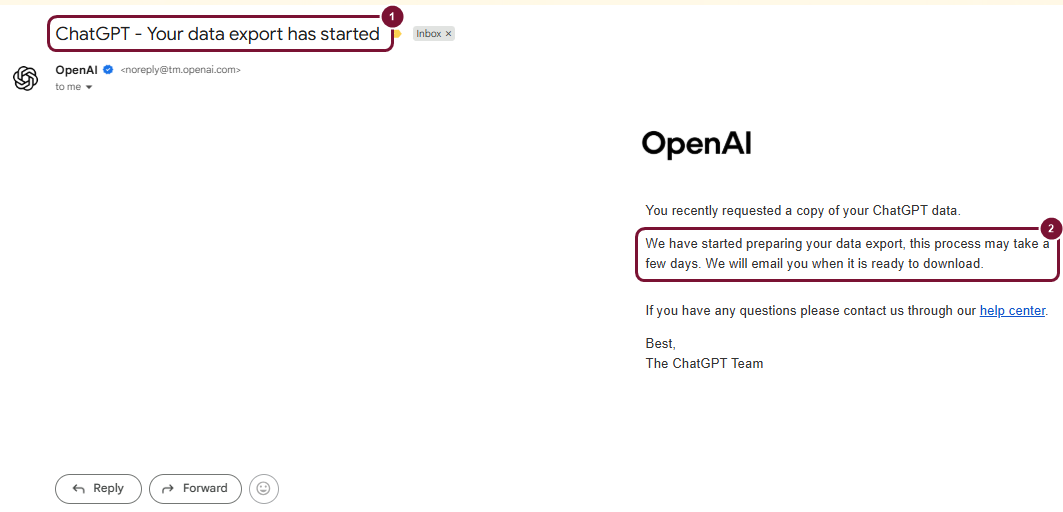
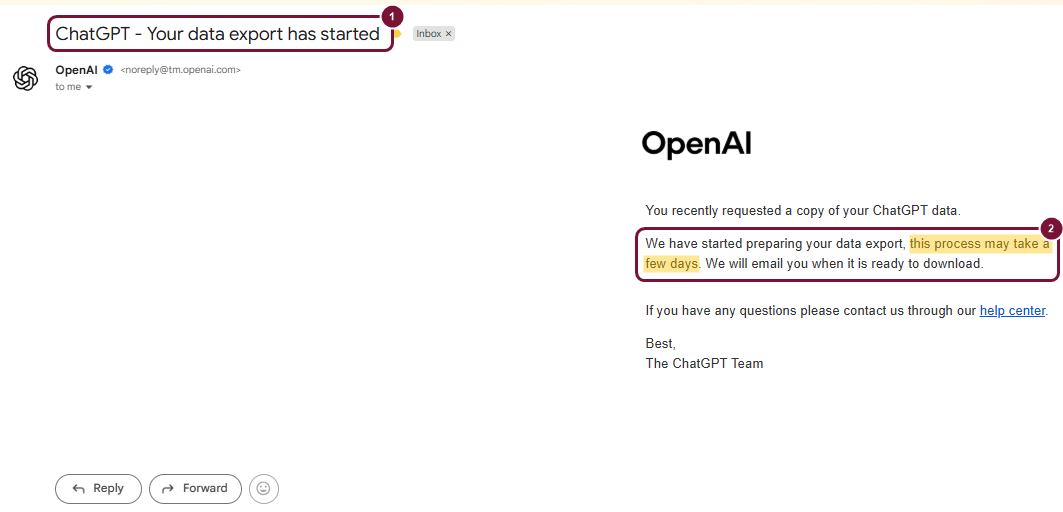
השוואה למדריך Team: Plugins ו-Sites במיזוג, סיכון אחרי המיזוג, שיטת בדיקת קבצים, ומרקר בצילום המייל

Changed region(s): [[0.8382, 0.4375, 0.9934, 0.5], [0.5898, 0.5, 0.683, 0.5312]]

diff --git a/guide-3.html b/guide-3.html
@@ -319,6 +319,10 @@ footer{font-size:.85rem;padding:30px 16px 20px;border-top:1px solid #dfe7e4}
       <div class="sec-body">
         <p class="sec-lead">לפני שלוחצים, כדאי להבין מה בדיוק המיזוג עושה לחשבון האישי שלכם.</p>
         <p>במיזוג, המידע מהחשבון האישי עובר לסביבת <bdi dir="ltr">Business</bdi>, והחשבון האישי נמחק. אחרי שהמיזוג הושלם, החשבון האישי כבר לא מופיע, ונשארת רק סביבת <bdi dir="ltr">Business</bdi>.</p>
+        <div class="callout warn">
+          <span class="callout-label">סיכון שחשוב להכיר לפני המיזוג</span>
+          <p>לפי <bdi dir="ltr">OpenAI</bdi>, אחרי המיזוג המידע האישי הופך לחלק מסביבת <bdi dir="ltr">Business</bdi>. אם בהמשך תעזבו את הסביבה, תוסרו ממנה, או שהסביבה תושבת, תאבדו גם את הגישה למידע שמוזג, והחשבון האישי הקודם לא ישוחזר. זו עוד סיבה לשמור את הגיבוי מחוץ ל-<bdi dir="ltr">ChatGPT</bdi>, ולבדוק את מדיניות המשרד לפני שממזגים.</p>
+        </div>
       </div>
     </section>
 
@@ -331,8 +335,9 @@ footer{font-size:.85rem;padding:30px 16px 20px;border-top:1px solid #dfe7e4}
         <ul class="bullets">
           <li>היסטוריית השיחות <bdi dir="ltr">(Chats)</bdi></li>
           <li><bdi dir="ltr">GPTs</bdi> שיצרתם (שימו לב: <bdi dir="ltr">OpenAI</bdi> מתכננת לסגור אותם ולהעביר את העבודה ל-<bdi dir="ltr">Plugins</bdi>, ראו מדריך 1 סעיף 6)</li>
-          <li>הזיכרון <bdi dir="ltr">(Memory)</bdi></li>
+          <li>הזיכרון <bdi dir="ltr">(Memory)</bdi>. אם ה-<bdi dir="ltr">Owner</bdi> כיבה את <bdi dir="ltr">Memory</bdi> לכל הסביבה, הזיכרונות השמורים נמחקים.</li>
         </ul>
+        <p><bdi dir="ltr">OpenAI</bdi> לא מפרטת בדף המיזוג מה קורה ל-<bdi dir="ltr">Projects</bdi> ולקבצים שבהם. לכן הגיבוי של קבצי הפרויקטים (מדריך 1, סעיף 6) חשוב, ובבדיקות שאחרי המיזוג בודקים אם הם הופיעו.</p>
         <p>קראו בעיון כל חלון שמופיע בתהליך המיזוג, לפני כל לחיצה. הממשק והתיעוד עשויים להשתנות.</p>
       </div>
     </section>
@@ -344,6 +349,9 @@ footer{font-size:.85rem;padding:30px 16px 20px;border-top:1px solid #dfe7e4}
         <p class="sec-lead">וזה מה שלא עובר. בגלל הרשימה הזו גיבינו ושמרנו דברים במדריך 1.</p>
         <ul class="bullets">
           <li><bdi dir="ltr">Custom instructions</bdi></li>
+          <li><bdi dir="ltr">Plugins</bdi></li>
+          <li><bdi dir="ltr">ChatGPT Sites</bdi> אינם נכללים במיזוג, וייתכן שתאבדו את האפשרות לערוך ולנהל אותם.</li>
+          <li>דומיין מאומת בפרופיל הבונה של ה-<bdi dir="ltr">GPTs</bdi> צריך אימות מחדש בסביבת <bdi dir="ltr">Business</bdi>.</li>
         </ul>
         <p>בנוסף, <bdi dir="ltr">OpenAI</bdi> מזהירה שבמקרים נדירים שיחות ארוכות או ישנות עלולות לא להיות זמינות אחרי המיזוג.</p>
       </div>
@@ -360,6 +368,7 @@ footer{font-size:.85rem;padding:30px 16px 20px;border-top:1px solid #dfe7e4}
           <ul class="bullets">
             <li><bdi dir="ltr">Export</bdi> הורד ונפתח.</li>
             <li><bdi dir="ltr">Custom instructions</bdi> הועתקו.</li>
+            <li><bdi dir="ltr">Plugins</bdi> ו-<bdi dir="ltr">ChatGPT Sites</bdi> תועדו.</li>
             <li>אתם מבינים שהחשבון האישי יימחק.</li>
             <li>אתם מבינים שאי אפשר להעביר את המידע בחזרה.</li>
           </ul>
@@ -405,13 +414,37 @@ footer{font-size:.85rem;padding:30px 16px 20px;border-top:1px solid #dfe7e4}
       <h2>בדיקת הקבצים אחרי המיזוג</h2>
       <div class="sec-body">
         <p class="sec-lead">כאן תלמדו לבדוק שהקבצים שהעליתם חזרו תקינים, ולא רק שהשמות שלהם מופיעים.</p>
-        <p>לפני המיזוג שמרתם במחשב את הקבצים החשובים (מדריך 1, סעיף 6). עכשיו משתמשים בהם כדי לבדוק:</p>
-        <ul class="checklist">
-          <li>פתחו שיחה שבה העליתם מסמך, ובדקו שהמסמך מופיע בה.</li>
-          <li>פתחו פרויקט חשוב, ובדקו שהקבצים מופיעים ברשימת המקורות שלו.</li>
-          <li>הורידו קובץ אחד, פתחו אותו והשוו לעותק ששמרתם בגיבוי.</li>
+        <p>עד כאן בדקתם שהשיחות הגיעו. עכשיו בודקים את הקבצים עצמם, וזו בדיקה נפרדת. לפני המיזוג שמרתם במחשב את הקבצים החשובים (מדריך 1, סעיף 6), ועכשיו משתמשים בהם.</p>
+        <h3 class="h2">שלב א: בוחרים ארבעה קבצים לבדיקה</h3>
+        <p>אין צורך לעבור על הכול. בחרו קובץ אחד מכל סוג, ועדיף מהמורכבים שיש לכם:</p>
+        <ul class="bullets">
+          <li>מסמך <bdi dir="ltr">Word</bdi>, רצוי כזה שיש בו טבלה או הערות שוליים.</li>
+          <li>קובץ <bdi dir="ltr">PDF</bdi>, רצוי סרוק או חתום.</li>
+          <li>תמונה, למשל צילום מסך או מסמך מצולם.</li>
+          <li>קובץ כבד או ארוך במיוחד, מכל סוג.</li>
         </ul>
-        <p>אם קובץ חסר או לא נפתח, העלו אותו מחדש מהעותק שבגיבוי.</p>
+        <h3 class="h2">שלב ב: מורידים ופותחים מחוץ ל-<bdi dir="ltr">ChatGPT</bdi></h3>
+        <p>הורידו כל קובץ למחשב, ופתחו אותו בתוכנה שבה אתם עובדים איתו בדרך כלל: <bdi dir="ltr">Word</bdi> למסמך, קורא <bdi dir="ltr">PDF</bdi> לקובץ <bdi dir="ltr">PDF</bdi>. אל תסתפקו בתצוגה שבתוך <bdi dir="ltr">ChatGPT</bdi>. הניחו לצידו את הקובץ המקורי מהגיבוי, והשוו ביניהם.</p>
+        <h3 class="h2">שלב ג: מה בדיוק משווים</h3>
+        <div class="tbl-wrap">
+          <table class="tbl">
+            <thead><tr><th>מה בודקים</th><th>מה מחפשים</th></tr></thead>
+            <tbody>
+              <tr><td>הפורמט של הקובץ</td><td>האם הקובץ נשאר <bdi dir="ltr">DOCX</bdi> או <bdi dir="ltr">PDF</bdi> כפי שהועלה.</td></tr>
+              <tr><td>טבלאות</td><td>האם השורות והעמודות נשמרו, או שהתוכן נמרח לשורה אחת רציפה.</td></tr>
+              <tr><td>הערות שוליים</td><td>האם הן קיימות, והאם המספור שלהן עדיין מצביע למקום הנכון.</td></tr>
+              <tr><td>עימוד ומספור עמודים</td><td>האם מספר העמודים זהה למקור. שינוי בעימוד משנה כל הפניה לעמוד.</td></tr>
+              <tr><td>נספחים וחתימות</td><td>האם הם נמצאים בקובץ, ובעיקר בקובצי <bdi dir="ltr">PDF</bdi> סרוקים.</td></tr>
+              <tr><td>עברית ואנגלית באותו מסמך</td><td>האם שורות מעורבות התהפכו או התפרקו.</td></tr>
+              <tr><td><bdi dir="ltr">Track Changes</bdi></td><td>רק כשהוא מהותי למסמך: האם השינויים וההערות עדיין שם.</td></tr>
+            </tbody>
+          </table>
+        </div>
+        <p>ואם עבדתם עם <bdi dir="ltr">Projects</bdi>: בדקו אם הפרויקטים והקבצים שבהם מופיעים בסביבת <bdi dir="ltr">Business</bdi>. אם פרויקט או קובץ חסר, הקימו אותו מחדש והעלו את הקבצים מהגיבוי.</p>
+        <div class="callout warn">
+          <span class="callout-label">אם מצאתם פער</span>
+          <p>אל תתקנו בתוך <bdi dir="ltr">ChatGPT</bdi>. הקובץ התקין נמצא בגיבוי שהכנתם לפני המעבר. העלו אותו מחדש מהגיבוי, ורשמו את המקרה. אם הוא חוזר על עצמו בסוג מסוים של קבצים, כדאי לדעת זאת לפני שממשיכים.</p>
+        </div>
       </div>
     </section>
 
@@ -433,6 +466,7 @@ footer{font-size:.85rem;padding:30px 16px 20px;border-top:1px solid #dfe7e4}
           <li>ודאו שההנחיות נשמרו.</li>
           <li>הריצו משימת ניסיון מוכרת.</li>
         </ul>
+        <p>ואם השתמשתם ב-<bdi dir="ltr">Plugins</bdi> בחשבון האישי: התקינו מחדש בסביבת <bdi dir="ltr">Business</bdi>, מתוך ספריית ה-<bdi dir="ltr">Plugins</bdi>, רק את אלה שהמשרד מאשר.</p>
         <div class="callout warn">
           <span class="callout-label">הסתייגות חשובה</span>
           <p>הגיבוי משמר את ההנחיות והקבצים. <bdi dir="ltr">OAuth</bdi>, סיסמאות, <bdi dir="ltr">API keys</bdi>, הרשאות ארגוניות, <bdi dir="ltr">Apps</bdi> ותוכנות חיצוניות עשויים לדרוש הגדרה מחדש.</p>
@@ -507,8 +541,10 @@ footer{font-size:.85rem;padding:30px 16px 20px;border-top:1px solid #dfe7e4}
           <li><bdi dir="ltr">Business</bdi> היא הסביבה היחידה שמופיעה.</li>
           <li>שיחות ישנות נפתחו.</li>
           <li><bdi dir="ltr">GPTs</bdi> נבדקו.</li>
+          <li>קבצים הורדו והושוו לגיבוי.</li>
           <li><bdi dir="ltr">Memory</bdi> נבדקה.</li>
           <li><bdi dir="ltr">Custom instructions</bdi> הודבקו מחדש ונבדקו.</li>
+          <li><bdi dir="ltr">Plugins</bdi> הותקנו מחדש לפי מדיניות, אם היו.</li>
           <li><bdi dir="ltr">Apps</bdi> חוברו מחדש לפי מדיניות.</li>
           <li>החיוב הישן הופסק.</li>
           <li>קיים נוהל עזיבת משתמשים.</li>

diff --git a/checklist.html b/checklist.html
@@ -263,7 +263,8 @@ footer{font-size:.85rem;padding:30px 16px 20px;border-top:1px solid #dfe7e4}
         <li>החשבון האישי לא נסגר, לא נמחק ולא מוזג לפני שקובץ הגיבוי הורד, נפתח ונבדק.</li>
         <li>ה-<bdi dir="ltr">Custom instructions</bdi> הועתקו לקובץ נפרד.</li>
         <li>הקבצים החשובים מה-<bdi dir="ltr">Projects</bdi> הורדו, וכל <bdi dir="ltr">GPT</bdi> תועד.</li>
-        <li><bdi dir="ltr">Apps</bdi>, קישורי שיתוף ומשימות מתוזמנות תועדו.</li>
+        <li>קבצי המקור של מסמכי הלקוחות שמורים במשרד.</li>
+        <li><bdi dir="ltr">Apps</bdi>, <bdi dir="ltr">Plugins</bdi>, <bdi dir="ltr">ChatGPT Sites</bdi>, קישורי שיתוף ומשימות מתוזמנות תועדו.</li>
       </ul>
     </section>
 
@@ -292,6 +293,7 @@ footer{font-size:.85rem;padding:30px 16px 20px;border-top:1px solid #dfe7e4}
         <li>קובץ ה-<bdi dir="ltr">Export</bdi> הגיע, נפתח ונבדק.</li>
         <li>אני יודע שה-<bdi dir="ltr">Custom instructions</bdi> יימחקו.</li>
         <li>אני מבין שהחשבון האישי יימחק.</li>
+        <li>אני מבין שאם אעזוב את סביבת <bdi dir="ltr">Business</bdi> או שהיא תושבת, אאבד גם את המידע שמוזג.</li>
         <li>אני מבין שהפעולה חד כיוונית.</li>
       </ul>
     </section>
@@ -302,6 +304,10 @@ footer{font-size:.85rem;padding:30px 16px 20px;border-top:1px solid #dfe7e4}
       <ul class="big-checklist">
         <li>סביבת <bdi dir="ltr">Personal</bdi> כבר לא מופיעה.</li>
         <li>שיחה ישנה נפתחה בהצלחה.</li>
+        <li>קובץ <bdi dir="ltr">DOCX</bdi> הורד ונבדק מול הגיבוי.</li>
+        <li>קובץ <bdi dir="ltr">PDF</bdi> הורד ונבדק מול הגיבוי.</li>
+        <li>תמונה הורדה ונבדקה מול הגיבוי.</li>
+        <li>פרויקט חשוב נבדק, או הוקם מחדש מהגיבוי.</li>
         <li><bdi dir="ltr">GPT</bdi> חשוב נפתח ופועל.</li>
         <li>ה-<bdi dir="ltr">Custom instructions</bdi> הודבקו מחדש ונבדקו.</li>
         <li>החיבורים הוגדרו מחדש בהתאם למדיניות.</li>

diff --git a/index.html b/index.html
@@ -337,7 +337,7 @@ figure > figcaption {
         <div class="card-kind">מדריך 1 מתוך 3</div>
         <h3>לפני המעבר למנוי <bdi dir="ltr">Business</bdi></h3>
         <p>מה משתנה ומה חייבים לגבות לפני שממזגים את החשבון האישי.</p>
-        <div class="card-meta">כ-13 דקות קריאה</div>
+        <div class="card-meta">כ-14 דקות קריאה</div>
         <a class="card-btn" href="guide-1.html">פתיחת המדריך</a>
       </div>
     </div>
@@ -359,7 +359,7 @@ figure > figcaption {
         <div class="card-kind">מדריך 3 מתוך 3</div>
         <h3>העברת הנתונים למנוי <bdi dir="ltr">Business</bdi></h3>
         <p>ביצוע המיזוג בפועל ובדיקת התוצאה לאחר ההשלמה.</p>
-        <div class="card-meta">כ-6 דקות קריאה</div>
+        <div class="card-meta">כ-9 דקות קריאה</div>
         <a class="card-btn" href="guide-3.html">פתיחת המדריך</a>
       </div>
     </div>
